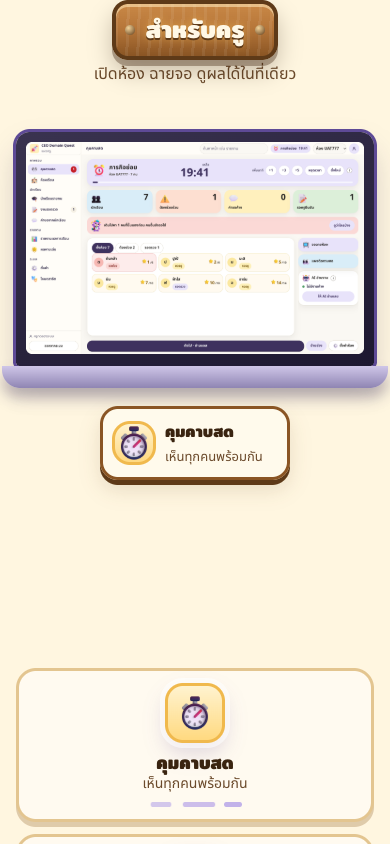
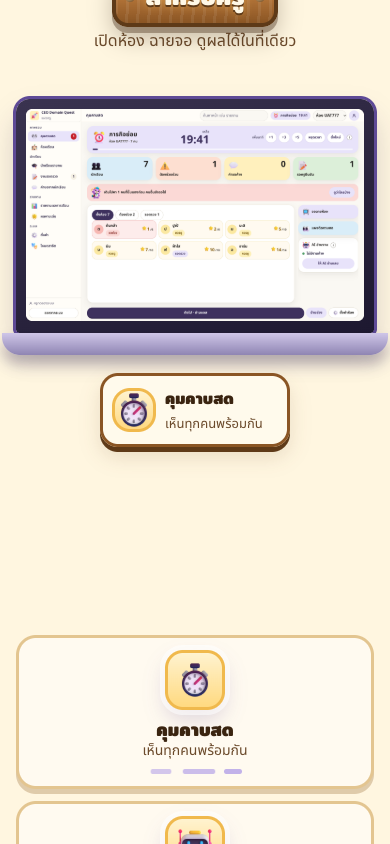
fix(landing): teacher callouts after lid opens, sharp screen

diff --git a/components/landing/sections.tsx b/components/landing/sections.tsx
@@ -165,6 +165,7 @@ const TEACH = [
 
 export function TeacherSection() {
   const [caption, setCaption] = useState(0)
+  const [captionReady, setCaptionReady] = useState(false)
   const [isDesktop, setIsDesktop] = useState(false)
   const [sequenceDone, setSequenceDone] = useState(false)
   const teacherRef = useRef<HTMLDivElement>(null)
@@ -172,8 +173,6 @@ export function TeacherSection() {
   const { scrollYProgress } = useScroll({ target: teacherRef, offset: ['start start', 'end end'] })
   const open = useTransform(scrollYProgress, [0, 0.28, 0.54], [-86, -86, 0])
   const closedOpacity = useTransform(open, [-86, -48, -16], [1, 0, 0])
-  const screenOpacity = useTransform(open, [-86, -18, 0], [0, 0.72, 1])
-  const screenLift = useTransform(scrollYProgress, [0.28, 0.5], [36, 0])
 
   useEffect(() => {
     const media = window.matchMedia('(min-width: 900px)')
@@ -182,6 +181,10 @@ export function TeacherSection() {
     media.addEventListener('change', sync)
     return () => media.removeEventListener('change', sync)
   }, [])
+
+  useEffect(() => {
+    if (reduce) setCaptionReady(true)
+  }, [reduce])
 
   useEffect(() => {
     const syncSequence = () => {
@@ -198,8 +201,9 @@ export function TeacherSection() {
   }, [])
 
   useMotionValueEvent(scrollYProgress, 'change', (value) => {
-    if (reduce) return
-    setCaption(value < 0.48 ? 0 : value < 0.68 ? 1 : 2)
+    const ready = reduce || value >= 0.58
+    setCaptionReady(ready)
+    if (!reduce) setCaption(value < 0.72 ? 0 : value < 0.84 ? 1 : 2)
   })
 
   return (
@@ -212,9 +216,7 @@ export function TeacherSection() {
               <motion.div className="ld-laptop" style={!isDesktop || reduce ? undefined : { perspective: 1200 }}>
                 <motion.div className="ld-laptop-lid" style={!isDesktop || reduce ? undefined : { rotateX: open }}>
                   <div className="ld-laptop-screen">
-                    <motion.div style={!isDesktop || reduce ? undefined : { opacity: screenOpacity, y: screenLift }}>
-                      <Pic src="/manual/teacher-captures/live.png" alt="หน้าคุมคาบสด แสดงรายชื่อนักเรียนและสถานะภารกิจ" width={1440} height={900} sizes="560px" />
-                    </motion.div>
+                    <Pic src="/manual/teacher-captures/live.png" alt="หน้าคุมคาบสด แสดงรายชื่อนักเรียนและสถานะภารกิจ" width={1440} height={900} sizes="560px" />
                   </div>
                 </motion.div>
                   <motion.div className="ld-laptop-closed" aria-hidden style={!isDesktop || reduce ? undefined : { opacity: closedOpacity }}><span>CEO<br />DOMAIN QUEST</span></motion.div>
@@ -223,7 +225,7 @@ export function TeacherSection() {
             </Reveal>
             <div className="ld-teacher-caption" aria-live="polite">
               {TEACH.map((t, i) => (
-              <motion.div key={t.title} className={`ld-teacher-callout ld-teacher-callout--${i + 1}`} animate={{ opacity: reduce || i === caption ? 1 : 0, y: reduce || i === caption ? 0 : 8 }}>
+              <motion.div key={t.title} className={`ld-teacher-callout ld-teacher-callout--${i + 1}`} animate={{ opacity: (!isDesktop || captionReady) && i === caption ? 1 : 0, y: (!isDesktop || captionReady) && i === caption ? 0 : 8 }}>
                   <span className="ld-callout-line" aria-hidden />
                   <span className="ld-card-ico">{icon(t.icon, 30)}</span>
                   <span><b>{t.title}</b><small>{t.note}</small></span>

diff --git a/components/landing/landing.css b/components/landing/landing.css
@@ -377,13 +377,13 @@ body:has(.ld) { height: auto; min-height: 100dvh; overflow: visible; overscroll-
 .ld-teacher-callout small { color: var(--ld-ink-2); font-size: 13px; }
 .ld-callout-line { position: absolute; width: clamp(34px, 6vw, 86px); height: 2px; background: var(--ld-purple); }
 .ld-callout-line::after { content: ''; position: absolute; width: 7px; height: 7px; border-radius: 50%; background: var(--ld-purple); top: -2.5px; }
-.ld-teacher-callout--1 { left: max(0px, calc(50% - 510px)); top: 17%; }
+.ld-teacher-callout--1 { left: max(-40px, calc(50% - 572px)); top: 17%; }
 .ld-teacher-callout--1 .ld-callout-line { right: calc(clamp(34px, 6vw, 86px) * -1); transform: rotate(12deg); transform-origin: left; }
 .ld-teacher-callout--1 .ld-callout-line::after { right: 0; }
-.ld-teacher-callout--2 { right: max(0px, calc(50% - 510px)); top: 38%; }
+.ld-teacher-callout--2 { right: max(-40px, calc(50% - 572px)); top: 38%; }
 .ld-teacher-callout--2 .ld-callout-line { left: calc(clamp(34px, 6vw, 86px) * -1); transform: rotate(-12deg); transform-origin: right; }
 .ld-teacher-callout--2 .ld-callout-line::after { left: 0; }
-.ld-teacher-callout--3 { left: max(0px, calc(50% - 480px)); bottom: 7%; }
+.ld-teacher-callout--3 { left: max(-40px, calc(50% - 572px)); bottom: 7%; }
 .ld-teacher-callout--3 .ld-callout-line { right: calc(clamp(34px, 6vw, 86px) * -1); transform: rotate(-18deg); transform-origin: left; }
 .ld-teacher-callout--3 .ld-callout-line::after { right: 0; }
 .ld-teacher-sticky .ld-feats { width: min(100%, 920px); margin: 18px auto 0; }
@@ -402,6 +402,12 @@ body:has(.ld) { height: auto; min-height: 100dvh; overflow: visible; overscroll-
   .ld-teacher-callout { position: relative; inset: auto !important; transform: none !important; }
   .ld-callout-line { display: none; }
   .ld-teacher-sticky .ld-feats { margin-top: 18px; }
+}
+
+@media (min-width: 900px) and (max-width: 1199px) {
+  .ld-teacher-scene .ld-laptop { width: min(100%, 600px); }
+  .ld-teacher-callout--1, .ld-teacher-callout--3 { left: -28px; }
+  .ld-teacher-callout--2 { right: -26px; }
 }
 
 @media (max-width: 600px) {
